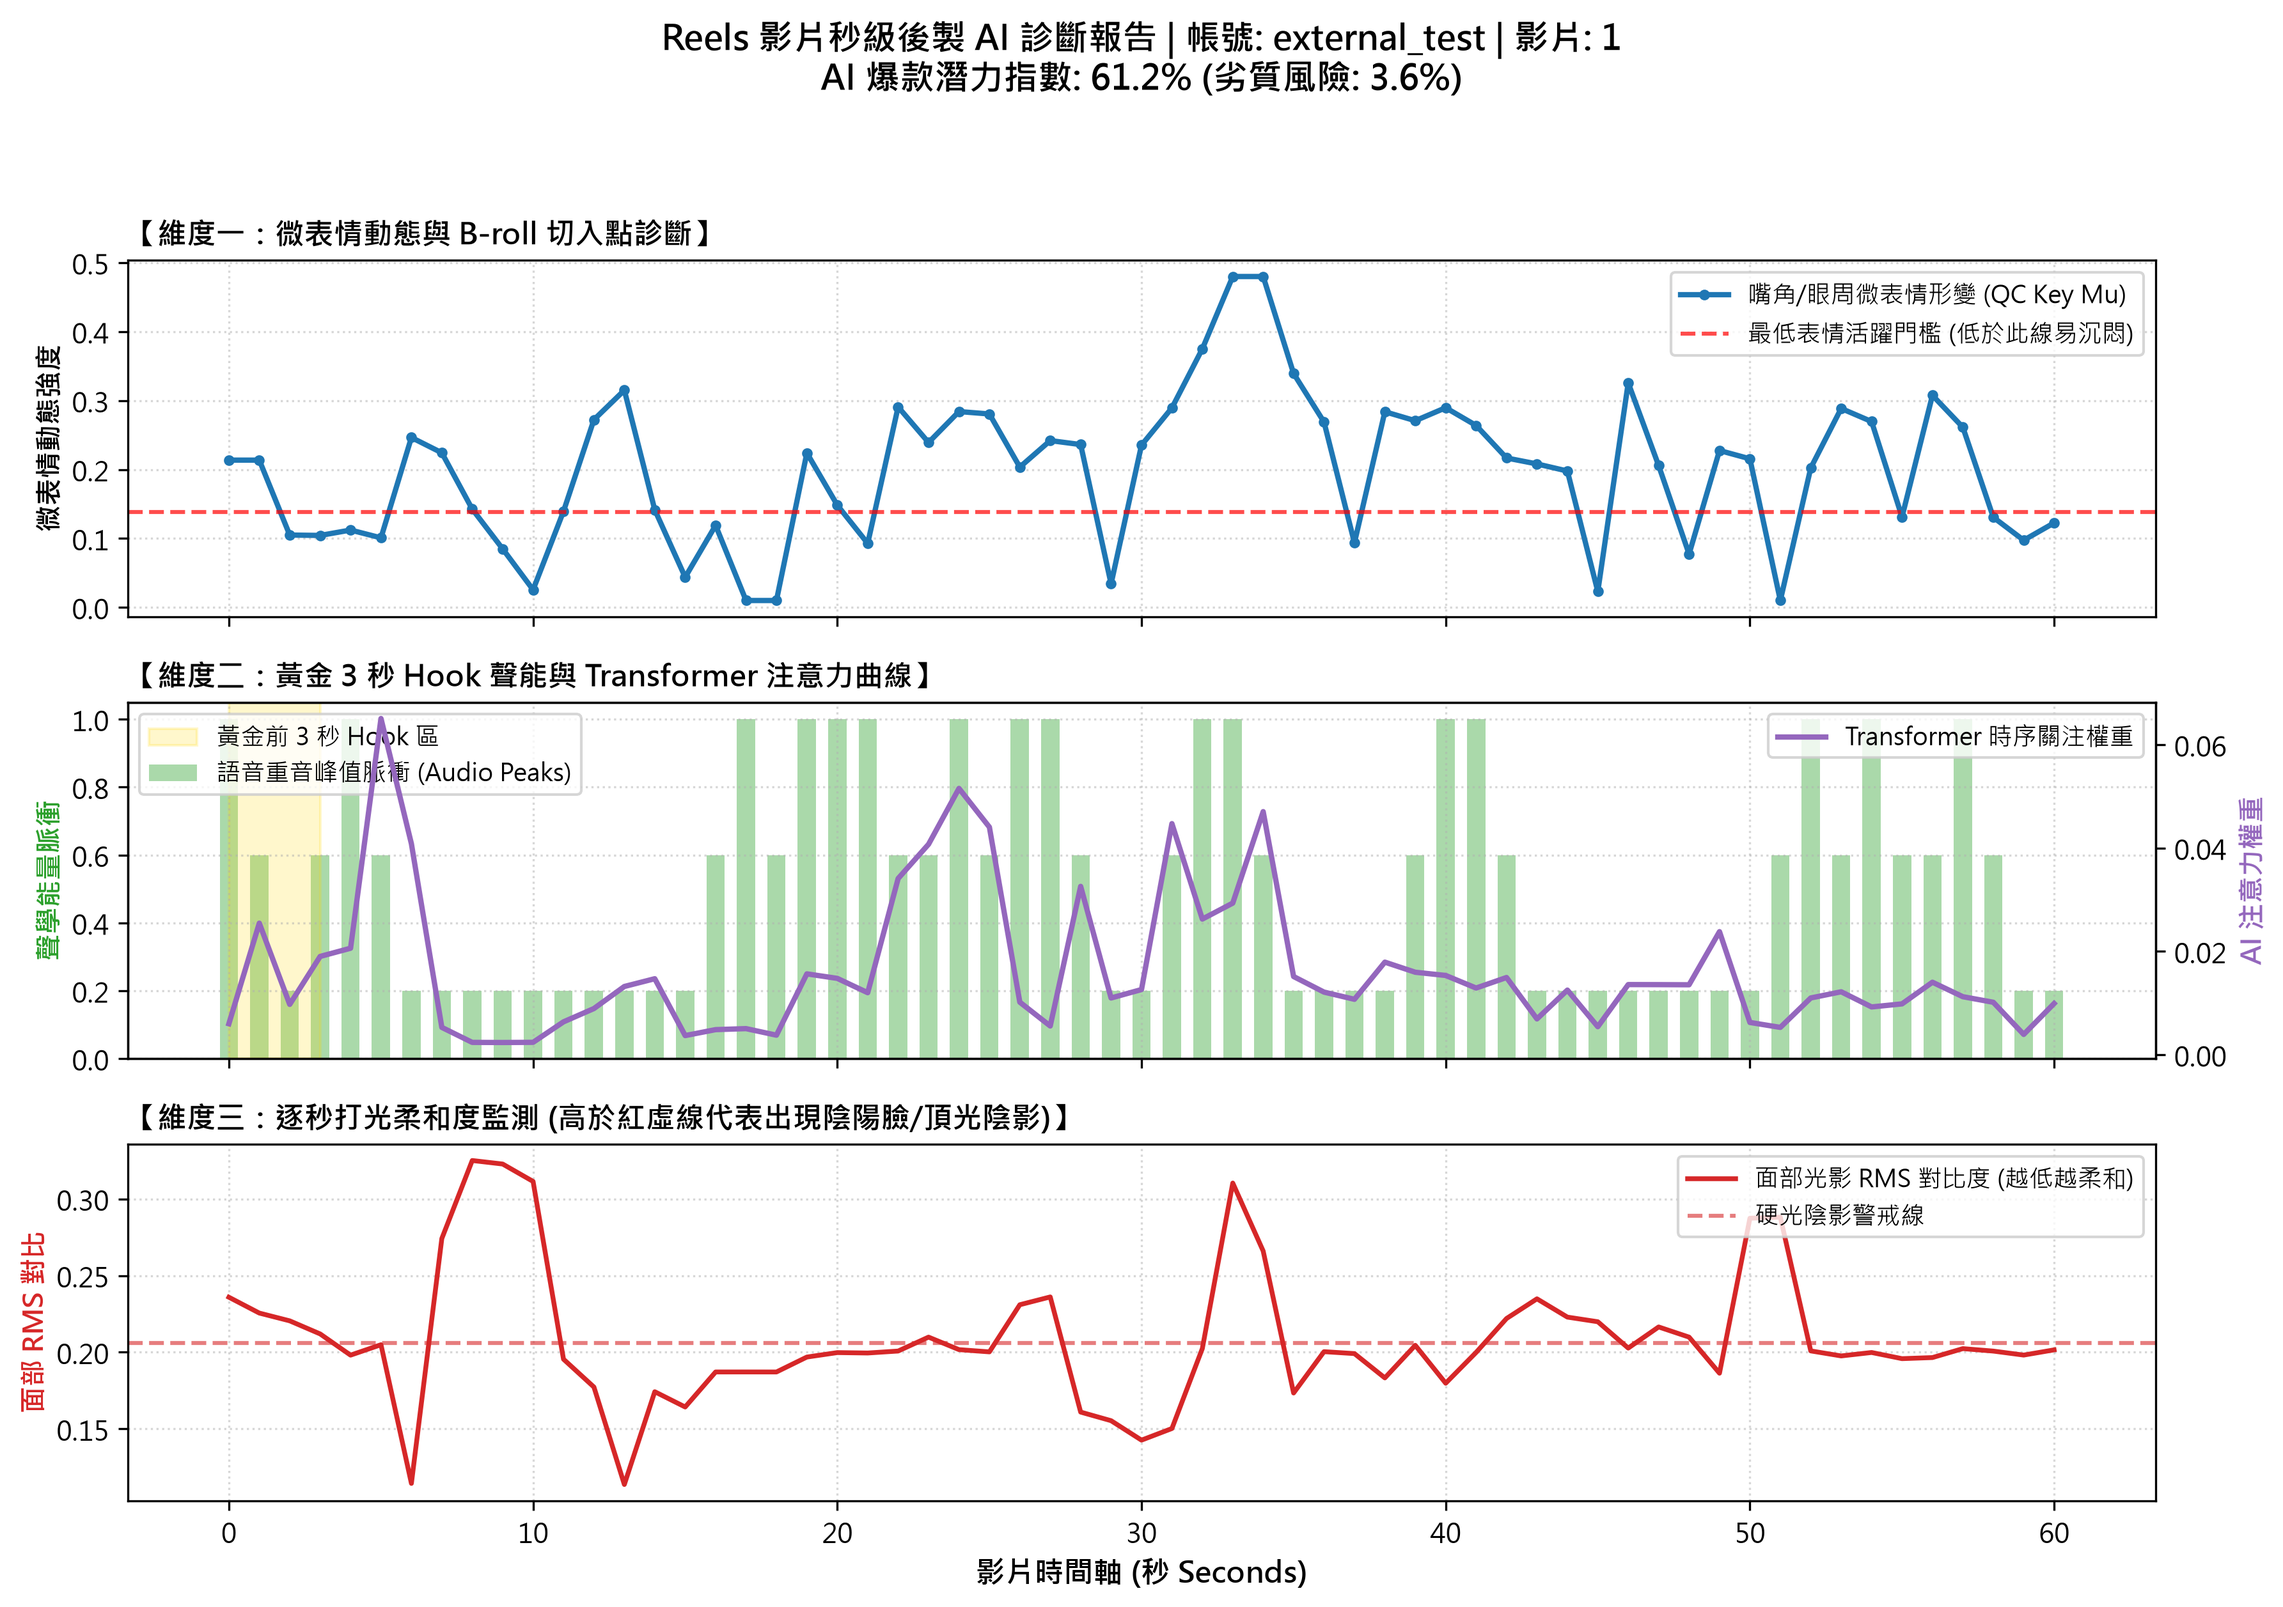
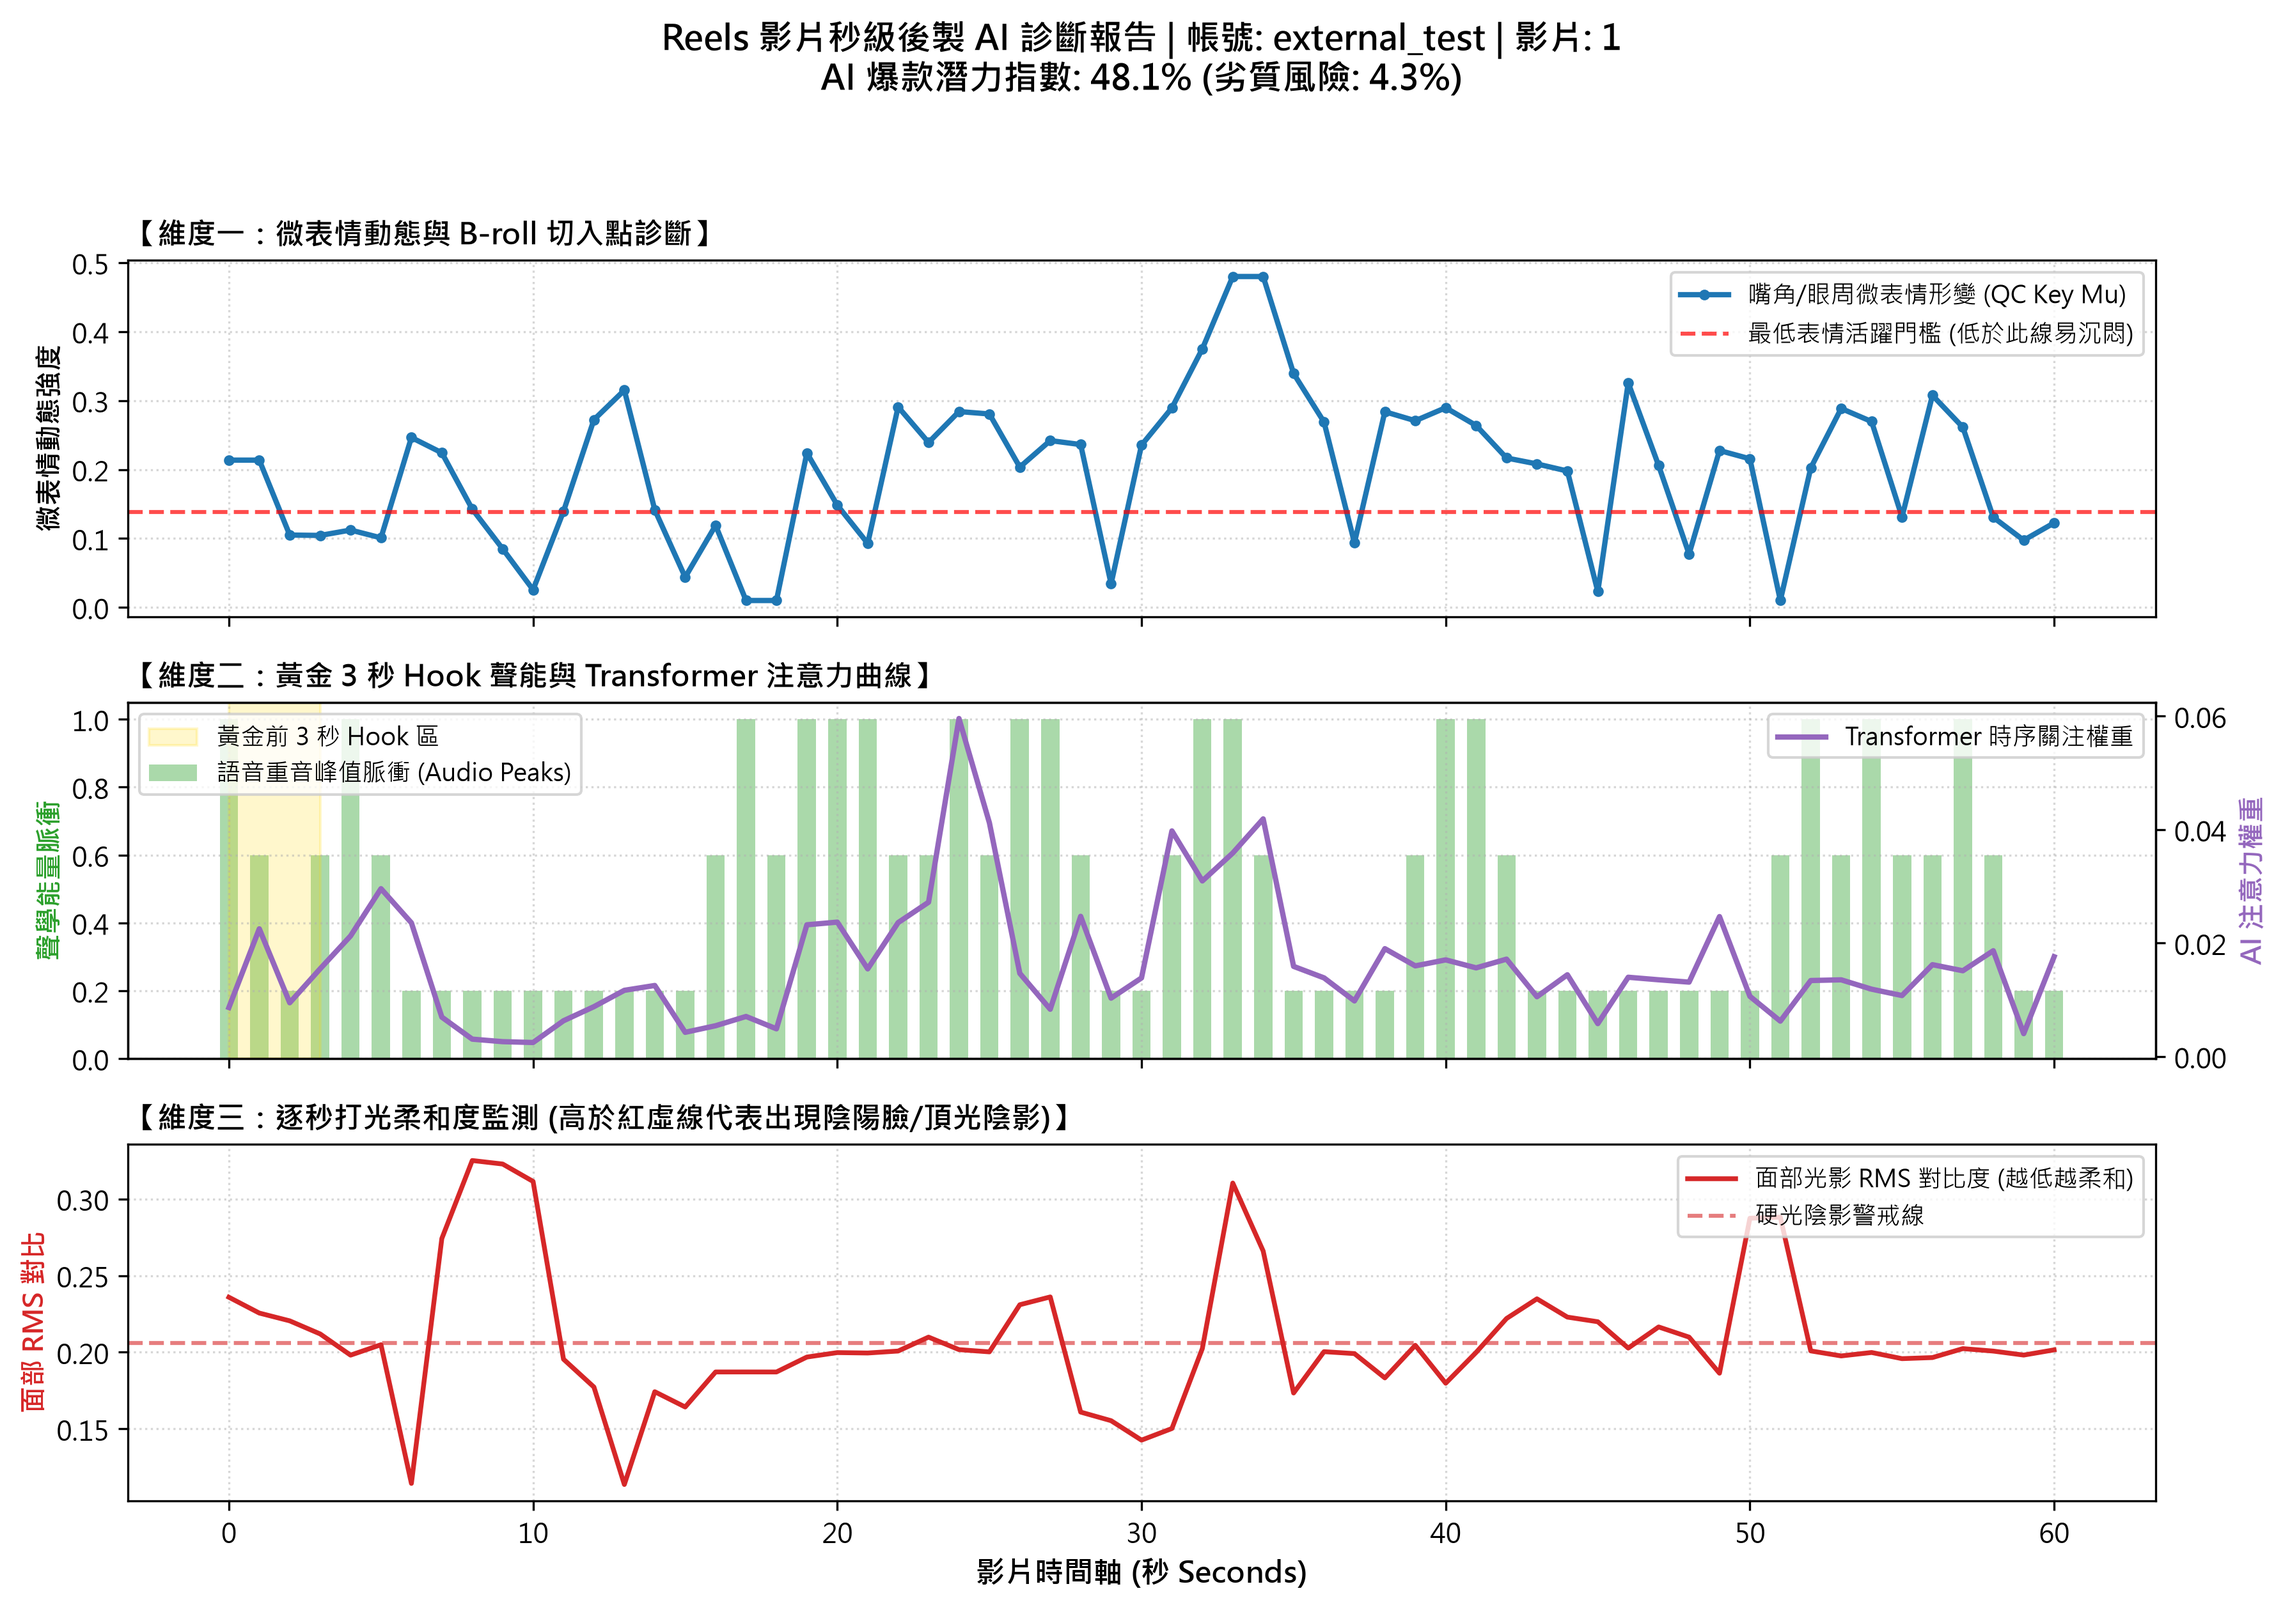
Surface Commit

diff --git a/pythonProject/crossModalTransformer/interactive_video_inspector.py b/pythonProject/crossModalTransformer/interactive_video_inspector.py
@@ -1,0 +1,232 @@
+#!/usr/bin/env python3
+# -*- coding: utf-8 -*-
+"""
+Reels Interactive Diagnostic Video Player
+-----------------------------------------
+功能：
+1. 視窗上方播放 Reels 影片 (.mp4)。
+2. 視窗下方同步顯示三大秒級診斷圖表 (微表情/B-roll、音訊/Hook、面部光影)。
+3. 一條顯眼的動態紅色時間標尺 (Cursor) 隨播放進度即時前進。
+4. 支援「點擊圖表任意秒數，影片立即跳轉播放」。
+"""
+
+import sys
+import numpy as np
+from pathlib import Path
+
+# GUI 與多媒體函式庫 (優先支援 PyQt5，向下相容)
+from PyQt5.QtCore import QUrl, QTimer, Qt
+from PyQt5.QtWidgets import (
+    QApplication, QMainWindow, QWidget, QVBoxLayout, QHBoxLayout,
+    QPushButton, QSlider, QLabel, QSplitter
+)
+from PyQt5.QtMultimedia import QMediaPlayer, QMediaContent
+from PyQt5.QtMultimediaWidgets import QVideoWidget
+
+# 嵌入式 Matplotlib 支援
+import matplotlib
+matplotlib.use("Qt5Agg")
+from matplotlib.backends.backend_qt5agg import FigureCanvasQTAgg as FigureCanvas
+from matplotlib.figure import Figure
+import matplotlib.pyplot as plt
+
+plt.rcParams["font.sans-serif"] = ["Microsoft JhengHei", "SimHei", "Arial Unicode MS", "DejaVu Sans"]
+plt.rcParams["axes.unicode_minus"] = False
+
+
+class InteractiveReelsPlayer(QMainWindow):
+    def __init__(self, video_path: str, diag_data: dict, benchmarks: dict):
+        super().__init__()
+        self.video_path = Path(video_path)
+        self.diag = diag_data
+        self.benchmarks = benchmarks
+        self.total_duration_sec = self.diag.get("duration", 60)
+
+        self.setWindowTitle(f"Reels 秒級 AI 體檢播放器 - {self.video_path.name}")
+        self.resize(1100, 920)
+
+        self.init_ui()
+        self.init_player()
+        self.plot_graphs()
+
+    def init_ui(self):
+        # 主佈局採用垂直分割視窗 (上部影片，下部圖表)
+        central_widget = QWidget(self)
+        self.setCentralWidget(central_widget)
+        main_layout = QVBoxLayout(central_widget)
+        main_layout.setContentsMargins(10, 10, 10, 10)
+
+        splitter = QSplitter(Qt.Vertical)
+        main_layout.addWidget(splitter)
+
+        # -----------------------------
+        # 上半部：影片播放畫面與播放控制列
+        # -----------------------------
+        top_container = QWidget()
+        top_layout = QVBoxLayout(top_container)
+        top_layout.setContentsMargins(0, 0, 0, 0)
+
+        self.video_widget = QVideoWidget()
+        self.video_widget.setMinimumHeight(320)
+        top_layout.addWidget(self.video_widget)
+
+        # 控制列 (播放/暫停按鈕、進度條、當前時間顯示)
+        control_bar = QHBoxLayout()
+        self.play_btn = QPushButton("▶ 播放 (Space)")
+        self.play_btn.setFixedWidth(120)
+        self.play_btn.clicked.connect(self.toggle_play)
+        control_bar.addWidget(self.play_btn)
+
+        self.time_label = QLabel("00:00 / 00:00")
+        control_bar.addWidget(self.time_label)
+
+        self.slider = QSlider(Qt.Horizontal)
+        self.slider.setRange(0, int(self.total_duration_sec * 1000))
+        self.slider.sliderMoved.connect(self.set_position)
+        control_bar.addWidget(self.slider)
+
+        top_layout.addLayout(control_bar)
+        splitter.addWidget(top_container)
+
+        # -----------------------------
+        # 下半部：嵌入式 Matplotlib 三大診斷圖表
+        # -----------------------------
+        bottom_container = QWidget()
+        bottom_layout = QVBoxLayout(bottom_container)
+        bottom_layout.setContentsMargins(0, 0, 0, 0)
+
+        self.fig = Figure(figsize=(10, 5.2), dpi=100)
+        self.canvas = FigureCanvas(self.fig)
+        self.canvas.mpl_connect("button_press_event", self.on_graph_clicked)
+        bottom_layout.addWidget(self.canvas)
+
+        splitter.addWidget(bottom_container)
+        splitter.setStretchFactor(0, 4)  # 影片佔 4 成比例
+        splitter.setStretchFactor(1, 6)  # 圖表佔 6 成比例
+
+    def init_player(self):
+        self.player = QMediaPlayer(None, QMediaPlayer.VideoSurface)
+        self.player.setVideoOutput(self.video_widget)
+        self.player.setMedia(QMediaContent(QUrl.fromLocalFile(str(self.video_path))))
+
+        # 定時器以 50ms 頻率更新時間軸與紅線遊標
+        self.timer = QTimer(self)
+        self.timer.setInterval(50)
+        self.timer.timeout.connect(self.sync_cursor_with_video)
+        self.timer.start()
+
+        self.player.positionChanged.connect(self.on_position_changed)
+        self.player.durationChanged.connect(self.on_duration_changed)
+
+    # -----------------------------------------------------------------------
+    # 繪製三大診斷圖表 (並標記垂直紅色進度線)
+    # -----------------------------------------------------------------------
+    def plot_graphs(self):
+        self.fig.clear()
+        T = self.total_duration_sec
+        secs = np.arange(T)
+        raw_np = self.diag["raw_np"][:T]
+
+        self.axes = self.fig.subplots(3, 1, sharex=True)
+        self.fig.subplots_adjust(top=0.92, bottom=0.08, left=0.08, right=0.92, hspace=0.35)
+
+        # ----------------- 子圖 1: 微表情與 B-roll 建議 -----------------
+        ax1 = self.axes[0]
+        ax1.plot(secs, raw_np[:, 4], color="#1f77b4", lw=2, label="嘴角/眼周微表情 (Key Mu)")
+        ax1.axhline(self.benchmarks["key_mu_p30"], color="red", ls="--", alpha=0.7, label="最低表情活躍線")
+        for idx, (st, ed) in enumerate(self.diag.get("broll_intervals", [])):
+            ax1.axvspan(st, ed, color="orange", alpha=0.35, label="建議加 B-roll" if idx == 0 else None)
+        ax1.set_ylabel("微表情強度", fontweight="bold", fontsize=9)
+        ax1.legend(loc="upper right", fontsize=8)
+        ax1.grid(True, ls=":", alpha=0.5)
+        ax1.set_title("【微表情張力與 B-roll 切入點】(點擊任意秒數跳轉)", fontsize=10, fontweight="bold", loc="left")
+
+        # ----------------- 子圖 2: 語音能量與 Transformer 注意力 -----------------
+        ax2 = self.axes[1]
+        ax2.bar(secs, raw_np[:, 6], color="#2ca02c", alpha=0.4, width=0.6, label="語音重音 (Audio Peak)")
+        ax2_twin = ax2.twinx()
+        ax2_twin.plot(secs, self.diag["temporal_importance"][:T], color="#9467bd", lw=2, label="AI 注意力權重")
+        ax2.axvspan(0, min(3, T), color="gold", alpha=0.25, label="首 3 秒 Hook 區")
+        ax2.set_ylabel("聲能脈衝", fontweight="bold", color="#2ca02c", fontsize=9)
+        ax2_twin.set_ylabel("注意力", fontweight="bold", color="#9467bd", fontsize=9)
+        ax2.legend(loc="upper left", fontsize=8)
+        ax2_twin.legend(loc="upper right", fontsize=8)
+        ax2.grid(True, ls=":", alpha=0.5)
+
+        # ----------------- 子圖 3: 面部打光柔和度 -----------------
+        ax3 = self.axes[2]
+        ax3.plot(secs, raw_np[:, 1], color="#d62728", lw=1.8, label="面部 RMS 對比 (越低越柔和)")
+        ax3.axhline(self.benchmarks["face_rms_p70"], color="#d62728", ls="--", alpha=0.7, label="硬光陰影警戒線")
+        ax3.set_ylabel("RMS 對比", fontweight="bold", color="#d62728", fontsize=9)
+        ax3.set_xlabel("影片秒數 (Seconds)", fontweight="bold", fontsize=9)
+        ax3.legend(loc="upper right", fontsize=8)
+        ax3.grid(True, ls=":", alpha=0.5)
+        ax3.set_xlim(0, T)
+
+        # 初始化三個子圖中的垂直紅色標尺線 (Cursor)
+        self.cursor_lines = []
+        for ax in self.axes:
+            line = ax.axvline(x=0, color="#ff0000", lw=2.2, linestyle="-", zorder=10)
+            self.cursor_lines.append(line)
+
+        self.canvas.draw()
+
+    # -----------------------------------------------------------------------
+    # 播放與即時連動邏輯
+    # -----------------------------------------------------------------------
+    def toggle_play(self):
+        if self.player.state() == QMediaPlayer.PlayingState:
+            self.player.pause()
+            self.play_btn.setText("▶ 播放 (Space)")
+        else:
+            self.player.play()
+            self.play_btn.setText("⏸ 暫停 (Space)")
+
+    def keyPressEvent(self, event):
+        if event.key() == Qt.Key_Space:
+            self.toggle_play()
+
+    def set_position(self, position):
+        self.player.setPosition(position)
+
+    def on_position_changed(self, position):
+        if not self.slider.isSliderDown():
+            self.slider.setValue(position)
+
+    def on_duration_changed(self, duration):
+        self.slider.setRange(0, duration)
+
+    def sync_cursor_with_video(self):
+        """核心：每 50 毫秒將紅線移動至影片當前的真實秒數"""
+        cur_pos_ms = self.player.position()
+        cur_sec = cur_pos_ms / 1000.0
+
+        dur_ms = self.player.duration() or (self.total_duration_sec * 1000)
+        cur_str = f"{int(cur_sec//60):02d}:{int(cur_sec%60):02d}"
+        tot_str = f"{int((dur_ms/1000)//60):02d}:{int((dur_ms/1000)%60):02d}"
+        self.time_label.setText(f"{cur_str} / {tot_str}")
+
+        # 更新紅線 X 座標
+        if hasattr(self, "cursor_lines"):
+            for line in self.cursor_lines:
+                line.set_xdata([cur_sec, cur_sec])
+            self.canvas.draw_idle()
+
+    def on_graph_clicked(self, event):
+        """使用者點擊圖表任意位置時，自動跳轉影片到該秒數"""
+        if event.xdata is not None and event.inaxes in self.axes:
+            target_sec = max(0.0, min(float(event.xdata), float(self.total_duration_sec)))
+            self.player.setPosition(int(target_sec * 1000))
+            if self.player.state() != QMediaPlayer.PlayingState:
+                self.player.play()
+                self.play_btn.setText("⏸ 暫停 (Space)")
+
+
+def launch_inspector(video_path: str, diag_data: dict, benchmarks: dict):
+    """彈出審片播放器視窗入口"""
+    app = QApplication.instance()
+    if app is None:
+        app = QApplication(sys.argv)
+    player = InteractiveReelsPlayer(video_path, diag_data, benchmarks)
+    player.show()
+    app.exec_()

diff --git a/pythonProject/crossModalTransformer/test_external_video.py b/pythonProject/crossModalTransformer/test_external_video.py
@@ -551,6 +551,13 @@ def main():
     print(f"📈 專屬秒級體檢儀表板圖已儲存至:\n   {plot_file}")
     print("=" * 85)
 
+    try:
+        from interactive_video_inspector import launch_inspector
+        print("\n🎬 正在啟動互動式審片播放器 (可邊看邊點擊圖表跳轉)...")
+        launch_inspector(str(video_path), diag, benchmarks)
+    except Exception as e:
+        print(f"[!] 無法啟動圖形介面播放器: {e}")
+
 
 if __name__ == "__main__":
     main()
